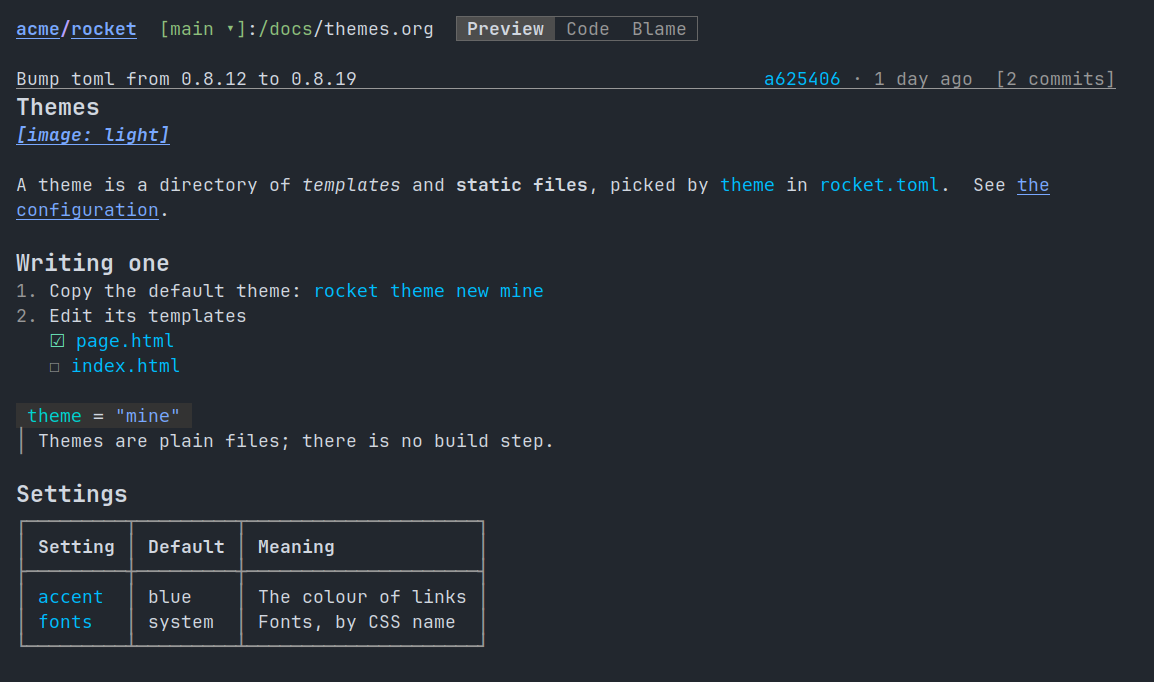
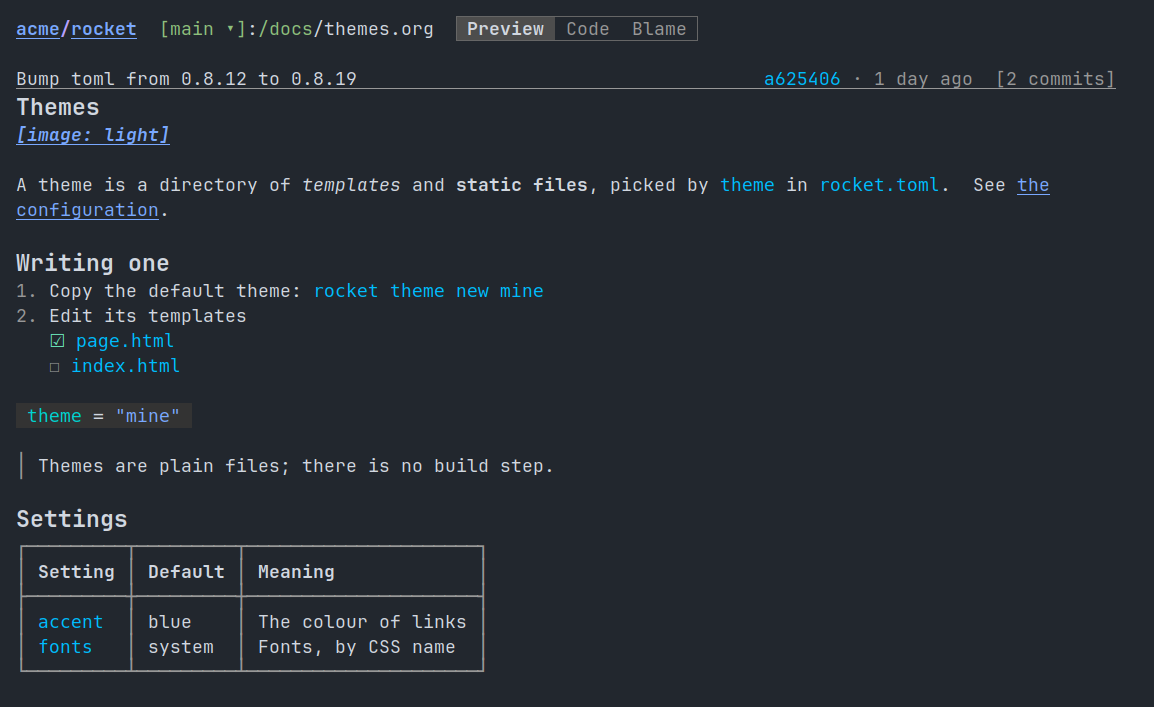
Leave a blank row after a code block in rendered markdown
Tidying drops a blank row beside a block that stands out (list, rule,
table, quote), and did so after a code box too, so a list right after
a fence sat against it while a paragraph kept its gap.  A code box now
always has one blank row below it, added when the source has none.
The org file screenshot gains one before its quote.

diff --git a/CHANGELOG.md b/CHANGELOG.md
@@ -4,6 +4,7 @@ All notable changes to this project will be documented in this file.
 The format is based on [Keep a Changelog](https://keepachangelog.com/en/1.0.0/).
 
 ## [Unreleased]
+* Rendered markdown always leaves a blank line after a code block
 * READMEs and markdown files join a paragraph's lines, as GitHub shows them
 * After a push, the repo page keeps its files and README until the new ones load
 * Until a new commit's are fetched, the last commits stored for an older one show
